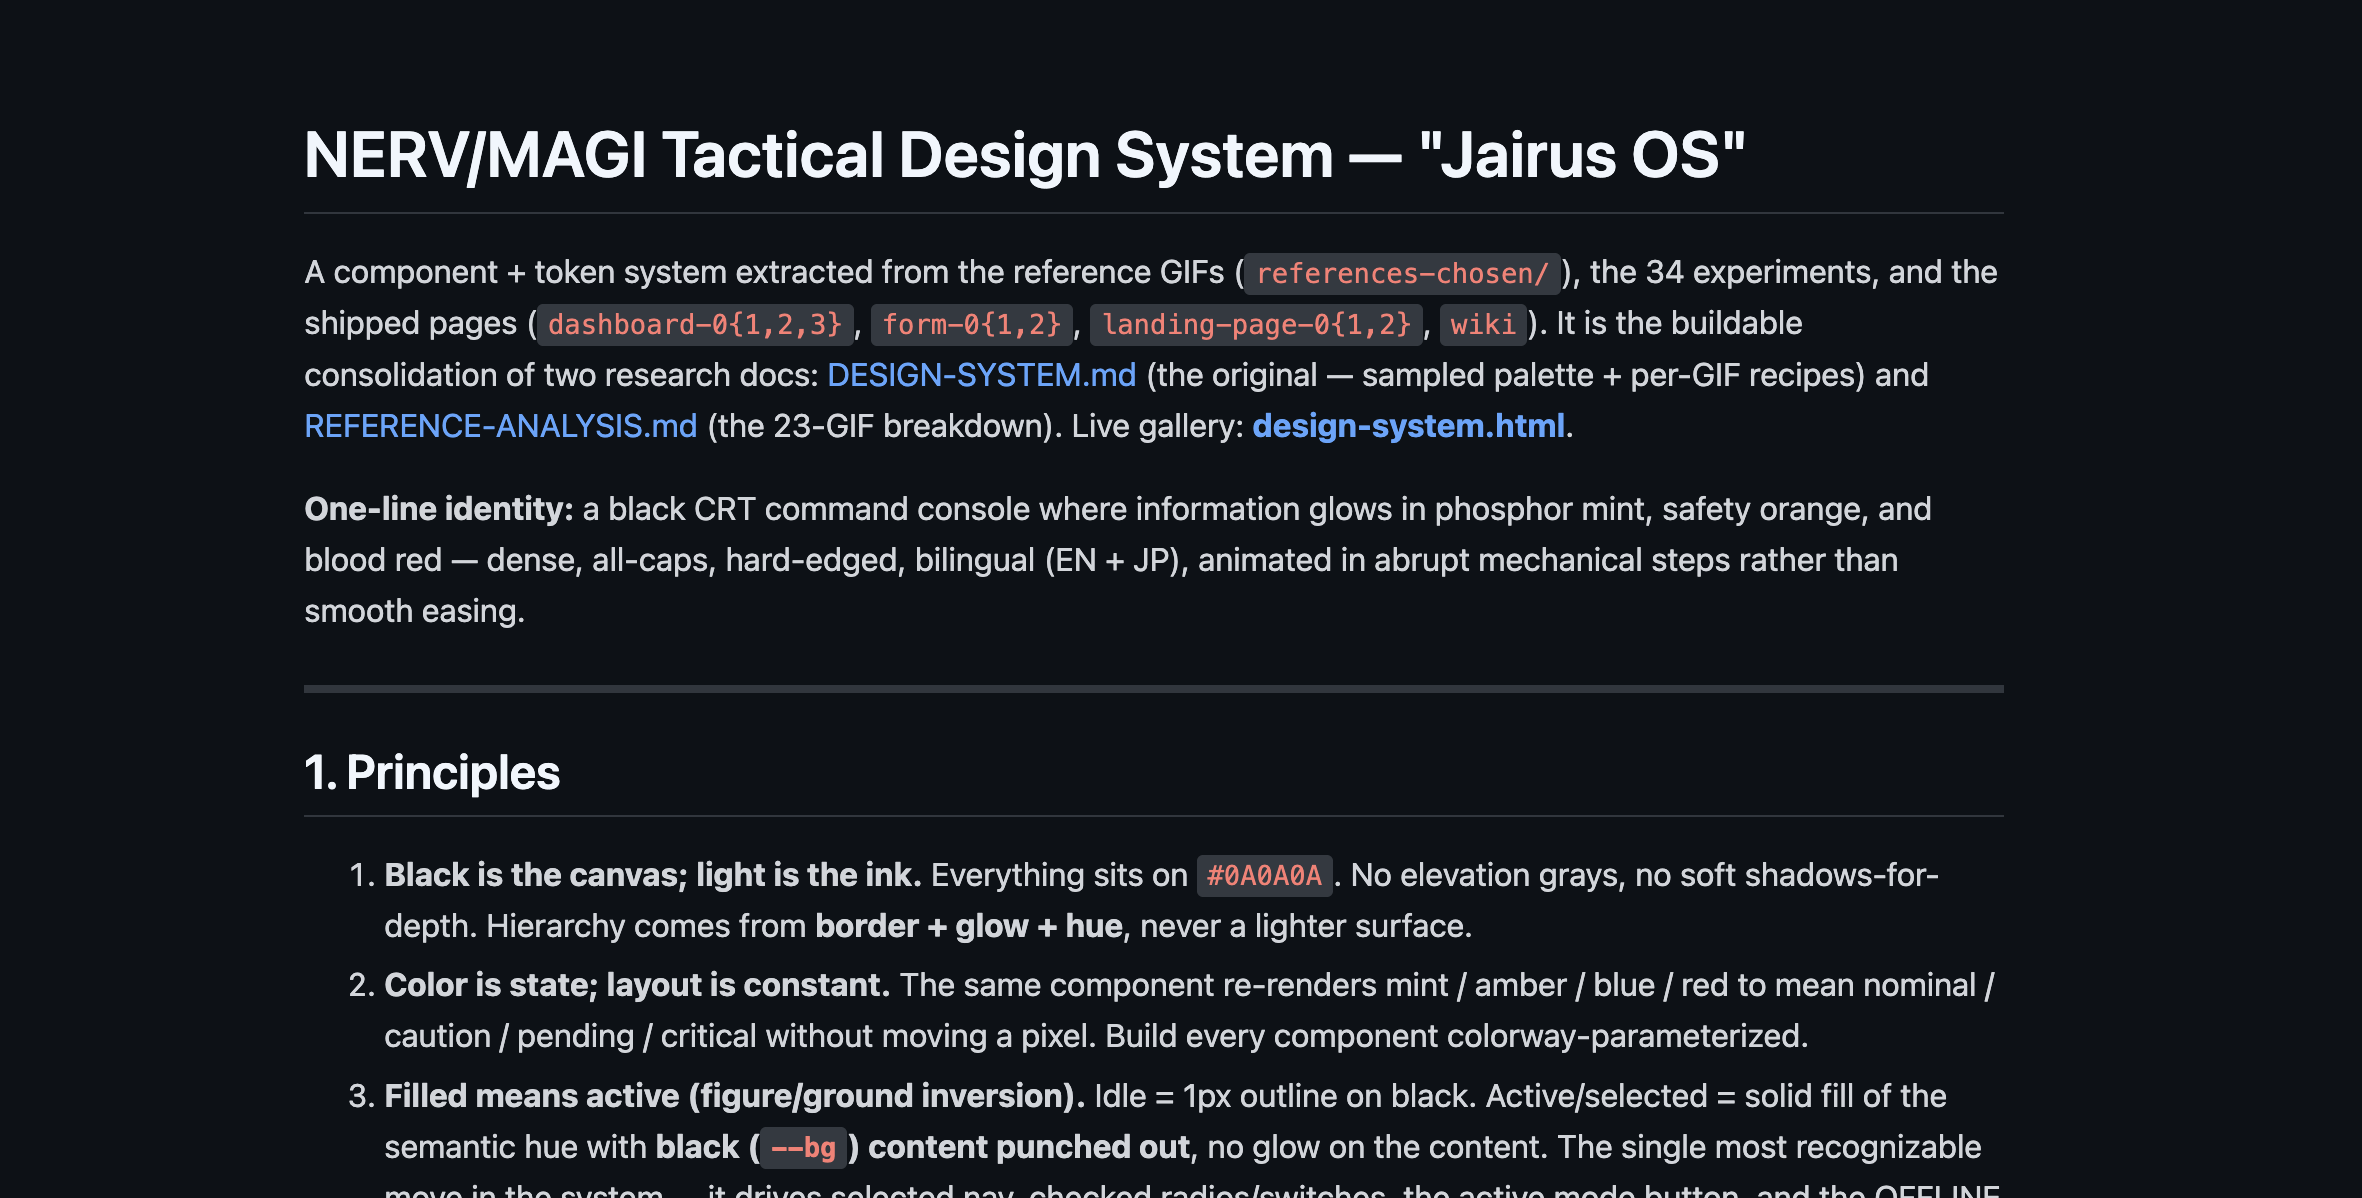
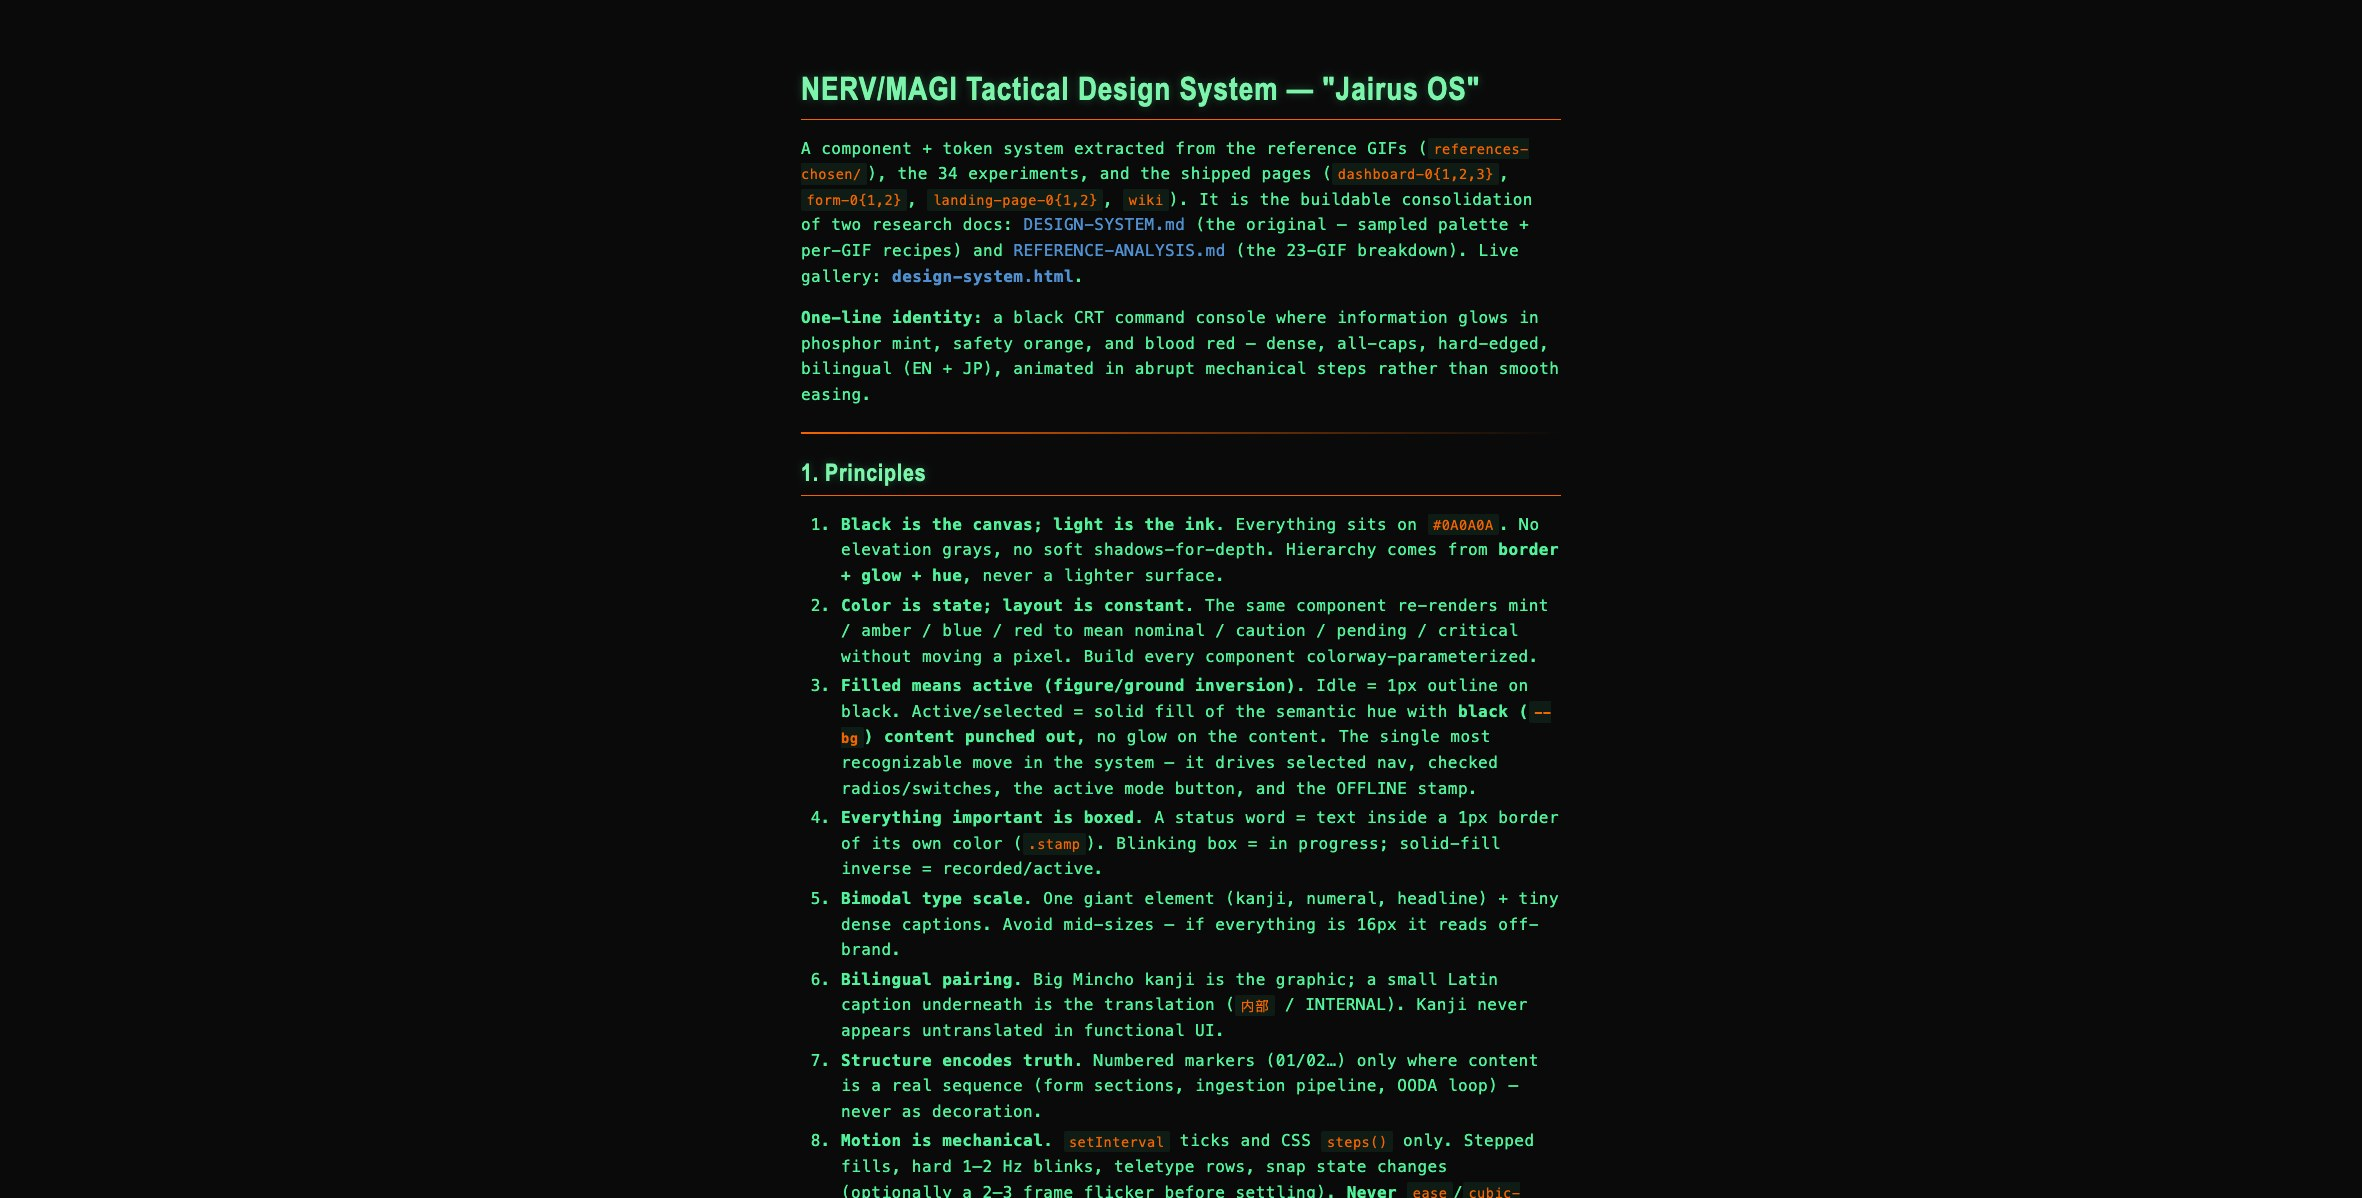
fix: issue in slide 8, design-system.md card

Changed region(s): [[0.1236, 0.0618, 0.8654, 1.0], [0.1236, 0.6177, 0.2472, 0.6795]]

diff --git a/docs/one-shot/slides/refs/design-system-spec.html b/docs/one-shot/slides/refs/design-system-spec.html
@@ -6,11 +6,21 @@
   <title>DESIGN-SYSTEM.md</title>
   <script src="https://cdn.jsdelivr.net/npm/marked/marked.min.js"></script>
   <style>
+    /* Phosphor design-system tokens — see design-system.html :root */
+    :root {
+      --bg: #0A0A0A; --mint: #52F29A; --mint-hi: #7CF4AB; --green-map: #3C9C6C; --green-dim: #246C3C;
+      --paper: #EDF8D6; --red: #C20C0C; --red-hi: #E2280F; --crimson: #E60225; --orange: #F26400;
+      --amber: #F49F09; --amber-dim: #9C3C24; --teal: #0C6C80; --blue: #5090D0; --blueprint: #B4B4B4;
+      --mono: ui-monospace, "SF Mono", Menlo, Consolas, monospace;
+      --cond: "Arial Narrow", "Avenir Next Condensed", "Helvetica Neue", Arial, sans-serif;
+    }
+    * { box-sizing: border-box; }
     body {
-      font-family: -apple-system, BlinkMacSystemFont, "Segoe UI", Helvetica, Arial, sans-serif, "Apple Color Emoji", "Segoe UI Emoji";
+      font-family: var(--mono);
+      letter-spacing: .03em;
       line-height: 1.6;
-      color: #d1d5da;
-      background-color: #0d1117;
+      color: var(--mint);
+      background-color: var(--bg);
       margin: 0;
       padding: 45px;
       max-width: 850px;
@@ -19,41 +29,44 @@
     h1, h2, h3 {
       margin-top: 24px;
       margin-bottom: 16px;
-      font-weight: 600;
+      font-family: var(--cond);
+      font-weight: 700;
       line-height: 1.25;
-      border-bottom: 1px solid #30363d;
+      letter-spacing: .03em;
+      border-bottom: 1px solid var(--orange);
       padding-bottom: 0.3em;
-      color: #f0f6fc;
+      color: var(--mint-hi);
+      text-shadow: 0 0 8px rgba(82,242,154,.28);
     }
     h1 { font-size: 2em; }
     h2 { font-size: 1.5em; }
-    h3 { font-size: 1.25em; border-bottom: none; }
+    h3 { font-size: 1.25em; border-bottom: none; color: var(--amber); text-shadow: none; }
     p, ul, ol { margin-bottom: 16px; }
     li { margin-bottom: 4px; }
     code {
       padding: 0.2em 0.4em;
       margin: 0;
       font-size: 85%;
-      background-color: rgba(110,118,129,0.4);
-      border-radius: 3px;
-      font-family: "SFMono-Regular", Consolas, "Liberation Mono", Menlo, monospace;
-      color: #ff7b72;
+      background-color: rgba(82,242,154,0.08);
+      border-radius: 2px;
+      font-family: var(--mono);
+      color: var(--orange);
     }
     pre {
       padding: 16px;
       overflow: auto;
       font-size: 85%;
       line-height: 1.45;
-      background-color: #161b22;
-      border-radius: 6px;
+      background-color: #050505;
+      border-radius: 0;
       margin-bottom: 16px;
-      border: 1px solid #30363d;
+      border: 1px solid var(--green-dim);
     }
     pre code {
       background: none;
       padding: 0;
       font-size: 100%;
-      color: #d1d5da;
+      color: var(--mint);
     }
     table {
       border-collapse: collapse;
@@ -62,26 +75,30 @@
     }
     table th, table td {
       padding: 6px 13px;
-      border: 1px solid #30363d;
+      border: 1px solid var(--green-dim);
     }
     table th {
-      background-color: #161b22;
-      color: #f0f6fc;
+      background-color: rgba(242,100,0,.08);
+      color: var(--amber);
+      font-family: var(--cond);
+      font-weight: 700;
+      letter-spacing: .06em;
+      text-transform: uppercase;
     }
     table tr:nth-child(2n) {
-      background-color: #161b22;
+      background-color: rgba(82,242,154,.04);
     }
     blockquote {
       padding: 0 1em;
-      color: #8b949e;
-      border-left: 0.25em solid #30363d;
+      color: var(--green-map);
+      border-left: 0.25em solid var(--orange);
       margin: 0 0 16px 0;
     }
     hr {
-      height: 0.25em;
+      height: 2px;
       padding: 0;
       margin: 24px 0;
-      background-color: #30363d;
+      background: linear-gradient(90deg, var(--orange), transparent);
       border: 0;
     }
     #content {
@@ -92,12 +109,14 @@
       opacity: 1;
     }
     a {
-      color: #58a6ff;
+      color: var(--blue);
       text-decoration: none;
     }
     a:hover {
+      color: var(--mint-hi);
       text-decoration: underline;
     }
+    ::selection { background: var(--mint); color: var(--bg); }
   </style>
 </head>
 <body>
@@ -115,7 +134,7 @@
         contentDiv.innerHTML = marked.parse(markdown);
         contentDiv.classList.add('loaded');
       } catch (err) {
-        contentDiv.innerHTML = `<p style="color: #ff7b72;">Error loading DESIGN-SYSTEM.md: ${err.message}</p>`;
+        contentDiv.innerHTML = `<p style="color: var(--red-hi);">Error loading DESIGN-SYSTEM.md: ${err.message}</p>`;
         // Surface the error instead of leaving the div invisible at opacity:0.
         contentDiv.classList.add('loaded');
       }
